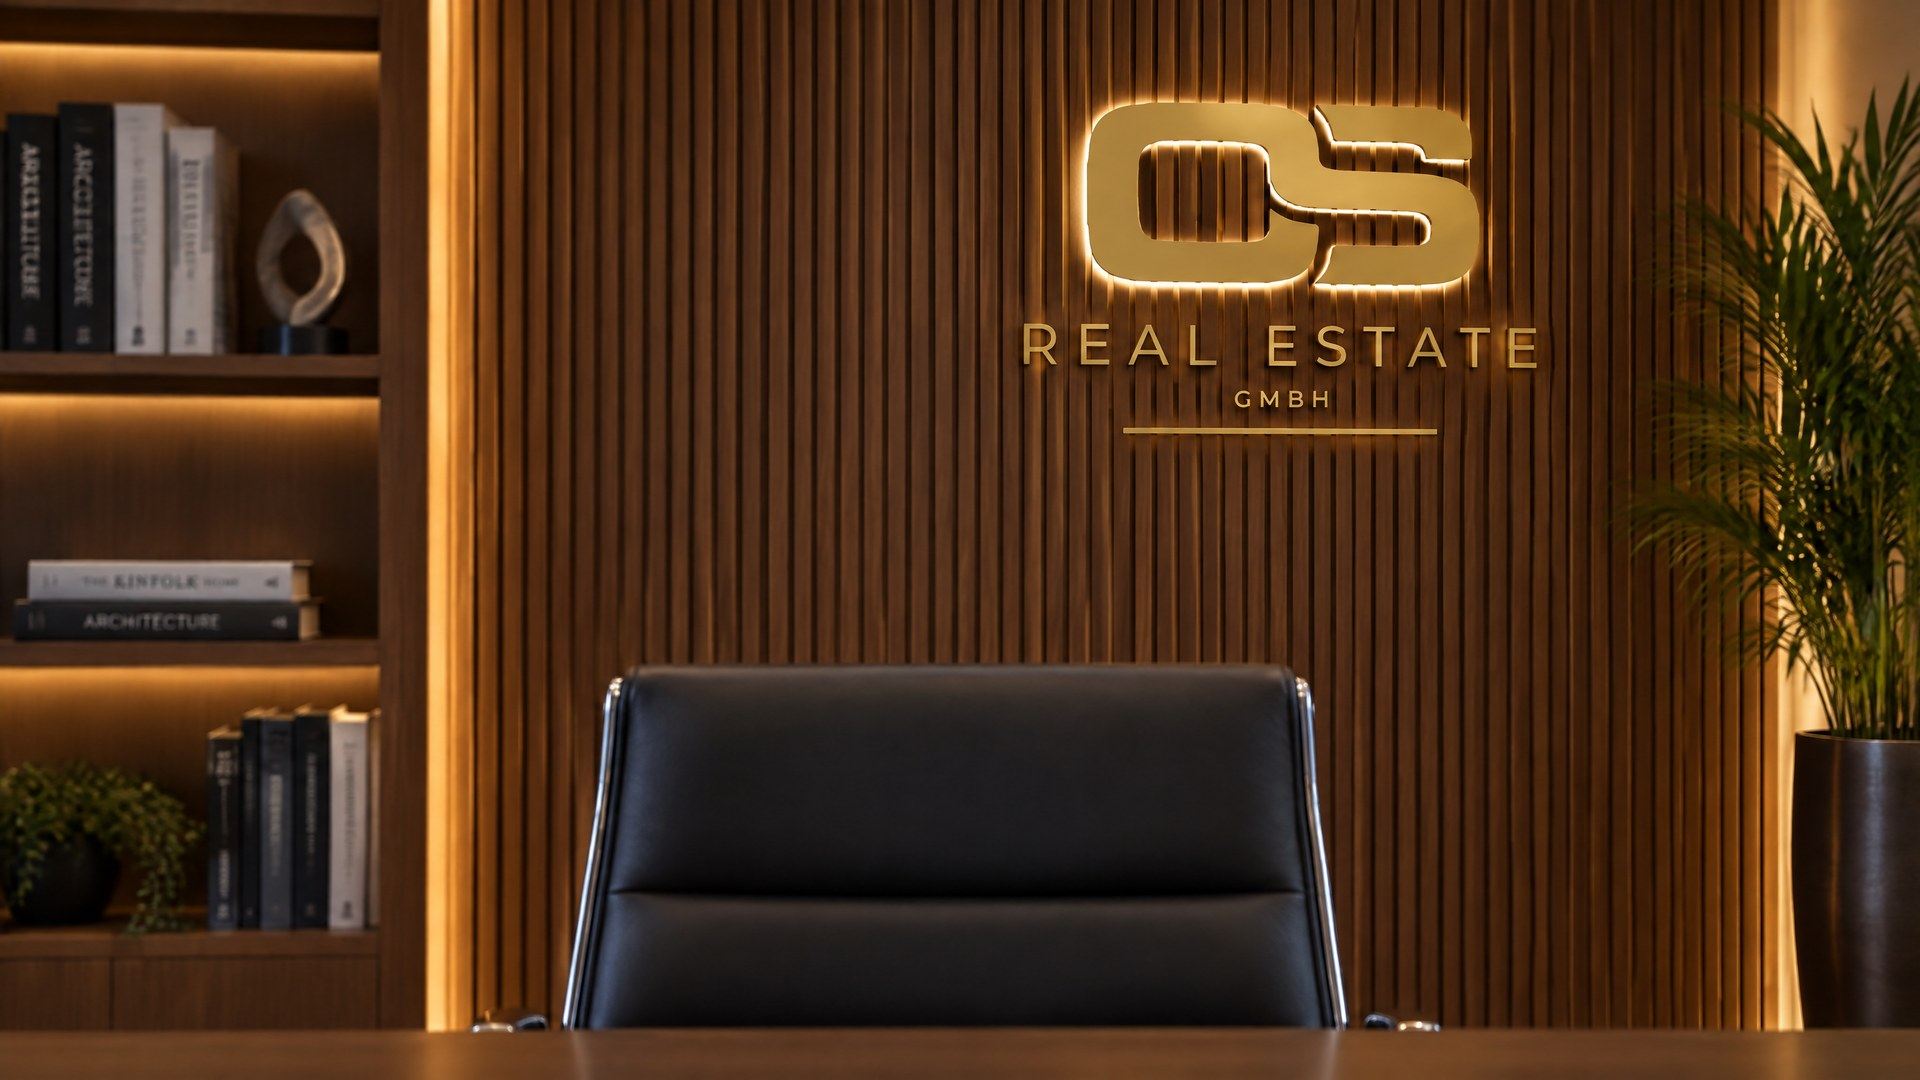
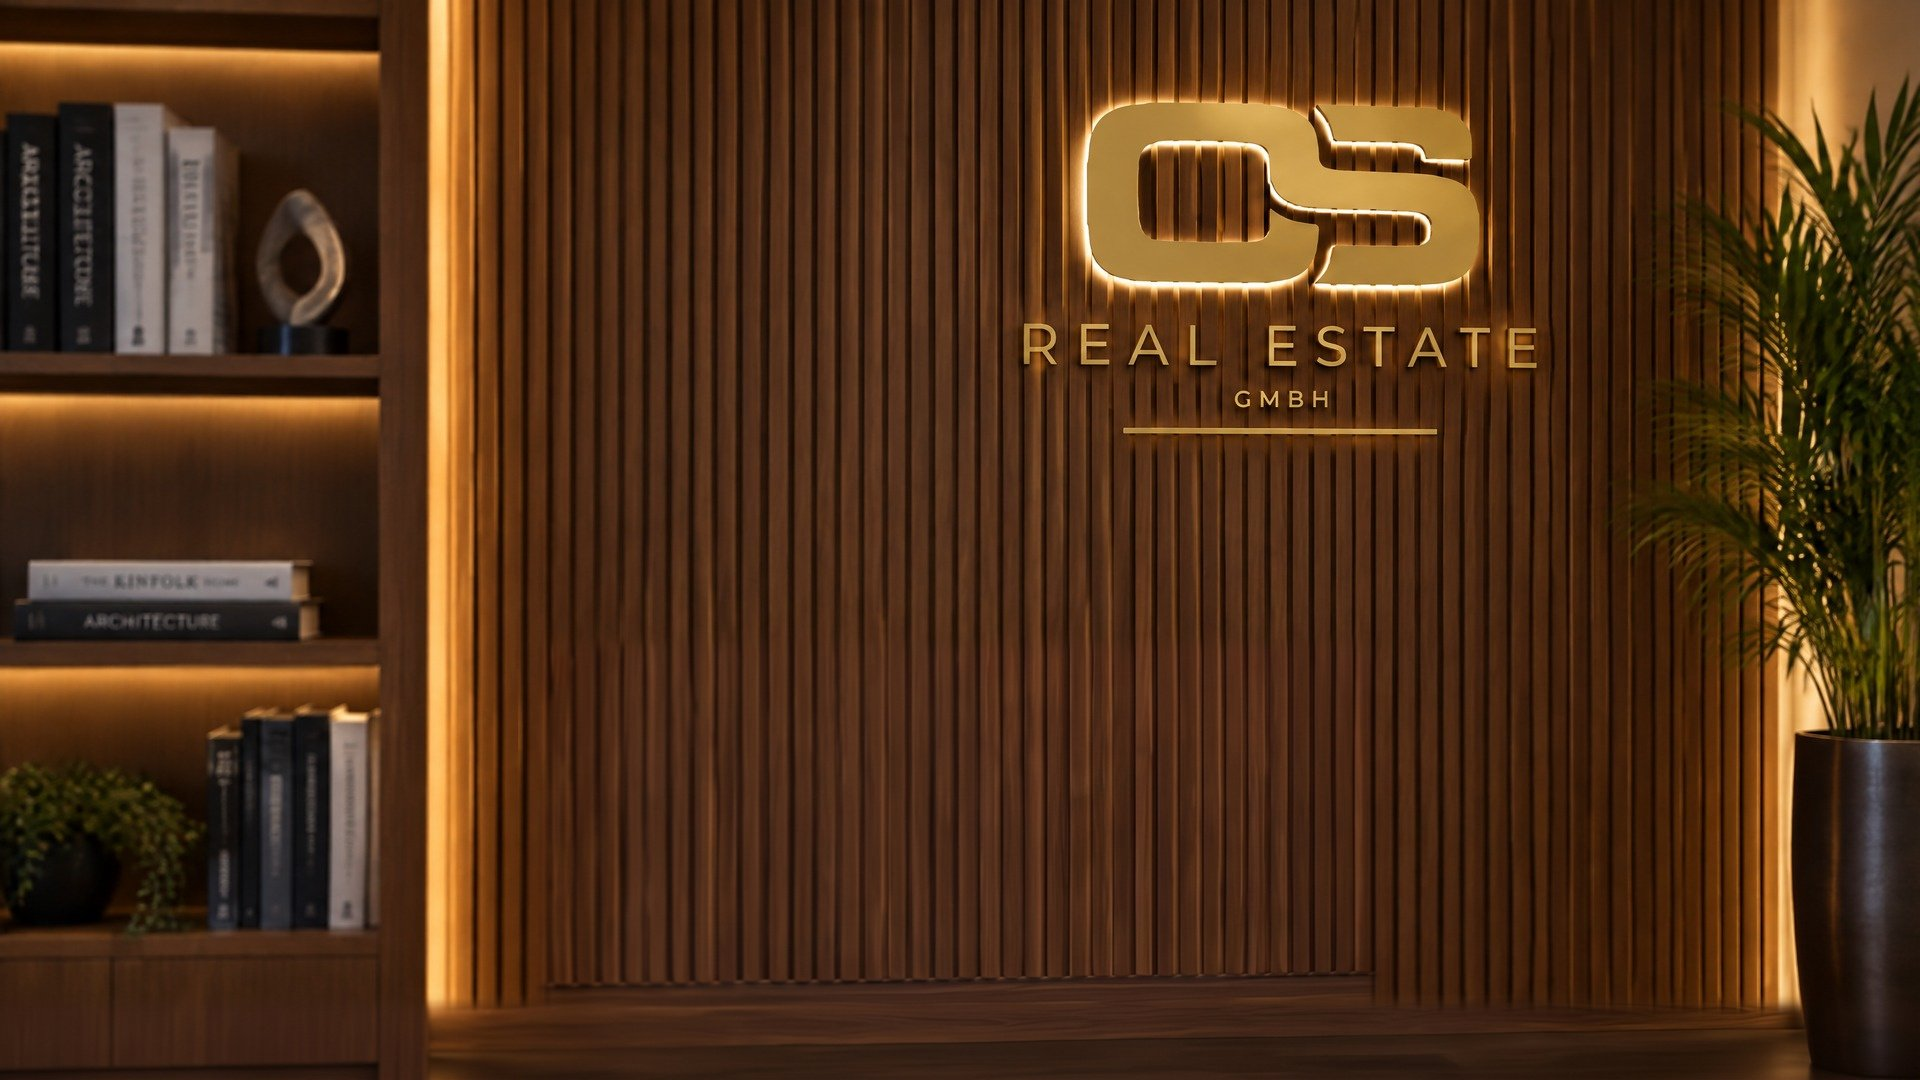
Zoom-Hintergründe in den Unterlagen ohne Tisch und Stuhl, Bildadressen versioniert, Download-Dateiname ohne Abfrageteil

Changed region(s): [[0.0, 0.6111, 1.0, 1.0]]

diff --git a/src/lib/unterlagenSeed.ts b/src/lib/unterlagenSeed.ts
@@ -360,17 +360,17 @@ export function seedUnterlagen(): UnterlagenAbschnitt[] {
           name: "Zoom-Hintergrund 1: Konferenzraum, Milchglas",
           beschreibung: "Wirkt wie unser Büro: 1920 × 1080, mit OS Real Estate Logo",
           aktion: "external-link",
-          url: "/images/zoom/os-real-estate-buero-1.jpg",
-          vorschauUrl: "/images/zoom/os-real-estate-buero-1.jpg",
+          url: "/images/zoom/os-real-estate-buero-1.jpg?v=2",
+          vorschauUrl: "/images/zoom/os-real-estate-buero-1.jpg?v=2",
           download: true,
         },
         {
           id: "m-zoom-desktop-2",
-          name: "Zoom-Hintergrund 2: Schreibtisch, Betonwand",
+          name: "Zoom-Hintergrund 2: Betonwand, Tageslicht",
           beschreibung: "Wirkt wie unser Büro: 1920 × 1080, mit OS Real Estate Logo",
           aktion: "external-link",
-          url: "/images/zoom/os-real-estate-buero-2.jpg",
-          vorschauUrl: "/images/zoom/os-real-estate-buero-2.jpg",
+          url: "/images/zoom/os-real-estate-buero-2.jpg?v=2",
+          vorschauUrl: "/images/zoom/os-real-estate-buero-2.jpg?v=2",
           download: true,
         },
         {
@@ -378,8 +378,8 @@ export function seedUnterlagen(): UnterlagenAbschnitt[] {
           name: "Zoom-Hintergrund 3: Konferenzraum, Abendlicht",
           beschreibung: "Wirkt wie unser Büro: 1920 × 1080, mit OS Real Estate Logo",
           aktion: "external-link",
-          url: "/images/zoom/os-real-estate-buero-3.jpg",
-          vorschauUrl: "/images/zoom/os-real-estate-buero-3.jpg",
+          url: "/images/zoom/os-real-estate-buero-3.jpg?v=2",
+          vorschauUrl: "/images/zoom/os-real-estate-buero-3.jpg?v=2",
           download: true,
         },
         {
@@ -387,8 +387,8 @@ export function seedUnterlagen(): UnterlagenAbschnitt[] {
           name: "Zoom-Hintergrund 4: Chefbüro, Holzwand",
           beschreibung: "Wirkt wie unser Büro: 1920 × 1080, mit OS Real Estate Logo",
           aktion: "external-link",
-          url: "/images/zoom/os-real-estate-buero-4.jpg",
-          vorschauUrl: "/images/zoom/os-real-estate-buero-4.jpg",
+          url: "/images/zoom/os-real-estate-buero-4.jpg?v=2",
+          vorschauUrl: "/images/zoom/os-real-estate-buero-4.jpg?v=2",
           download: true,
         },
         {
@@ -396,8 +396,8 @@ export function seedUnterlagen(): UnterlagenAbschnitt[] {
           name: "Zoom-Hintergrund 5: Besprechungsraum, Grün",
           beschreibung: "Wirkt wie unser Büro: 1920 × 1080, mit OS Real Estate Logo",
           aktion: "external-link",
-          url: "/images/zoom/os-real-estate-buero-5.jpg",
-          vorschauUrl: "/images/zoom/os-real-estate-buero-5.jpg",
+          url: "/images/zoom/os-real-estate-buero-5.jpg?v=2",
+          vorschauUrl: "/images/zoom/os-real-estate-buero-5.jpg?v=2",
           download: true,
         },
         {
@@ -405,8 +405,8 @@ export function seedUnterlagen(): UnterlagenAbschnitt[] {
           name: "Zoom-Hintergrund 6: Großraumbüro, Blick über Berlin",
           beschreibung: "Wirkt wie unser Büro: 1920 × 1080, mit OS Real Estate Logo",
           aktion: "external-link",
-          url: "/images/zoom/os-real-estate-buero-6.jpg",
-          vorschauUrl: "/images/zoom/os-real-estate-buero-6.jpg",
+          url: "/images/zoom/os-real-estate-buero-6.jpg?v=2",
+          vorschauUrl: "/images/zoom/os-real-estate-buero-6.jpg?v=2",
           download: true,
         },
         {
@@ -414,17 +414,17 @@ export function seedUnterlagen(): UnterlagenAbschnitt[] {
           name: "Zoom-Hintergrund 7: Beratungsraum, hell",
           beschreibung: "Wirkt wie unser Büro: 1920 × 1080, mit OS Real Estate Logo",
           aktion: "external-link",
-          url: "/images/zoom/os-real-estate-buero-7.jpg",
-          vorschauUrl: "/images/zoom/os-real-estate-buero-7.jpg",
+          url: "/images/zoom/os-real-estate-buero-7.jpg?v=2",
+          vorschauUrl: "/images/zoom/os-real-estate-buero-7.jpg?v=2",
           download: true,
         },
         {
           id: "m-zoom-desktop-8",
-          name: "Zoom-Hintergrund 8: Schreibtisch, Abend",
+          name: "Zoom-Hintergrund 8: Betonwand, Abend",
           beschreibung: "Wirkt wie unser Büro: 1920 × 1080, mit OS Real Estate Logo",
           aktion: "external-link",
-          url: "/images/zoom/os-real-estate-buero-8.jpg",
-          vorschauUrl: "/images/zoom/os-real-estate-buero-8.jpg",
+          url: "/images/zoom/os-real-estate-buero-8.jpg?v=2",
+          vorschauUrl: "/images/zoom/os-real-estate-buero-8.jpg?v=2",
           download: true,
         },
       ],

diff --git a/src/pages/Unterlagen.tsx b/src/pages/Unterlagen.tsx
@@ -274,7 +274,8 @@ export default function Unterlagen() {
           if (dok.download) {
             const a = document.createElement("a");
             a.href = dok.url;
-            const fileName = dok.url.split("/").pop() || "download";
+            // Ohne Abfrageteil wie "?v=2" (Cache-Versionierung der Bilder).
+            const fileName = dok.url.split("/").pop()?.split("?")[0] || "download";
             a.download = fileName;
             document.body.appendChild(a);
             a.click();
